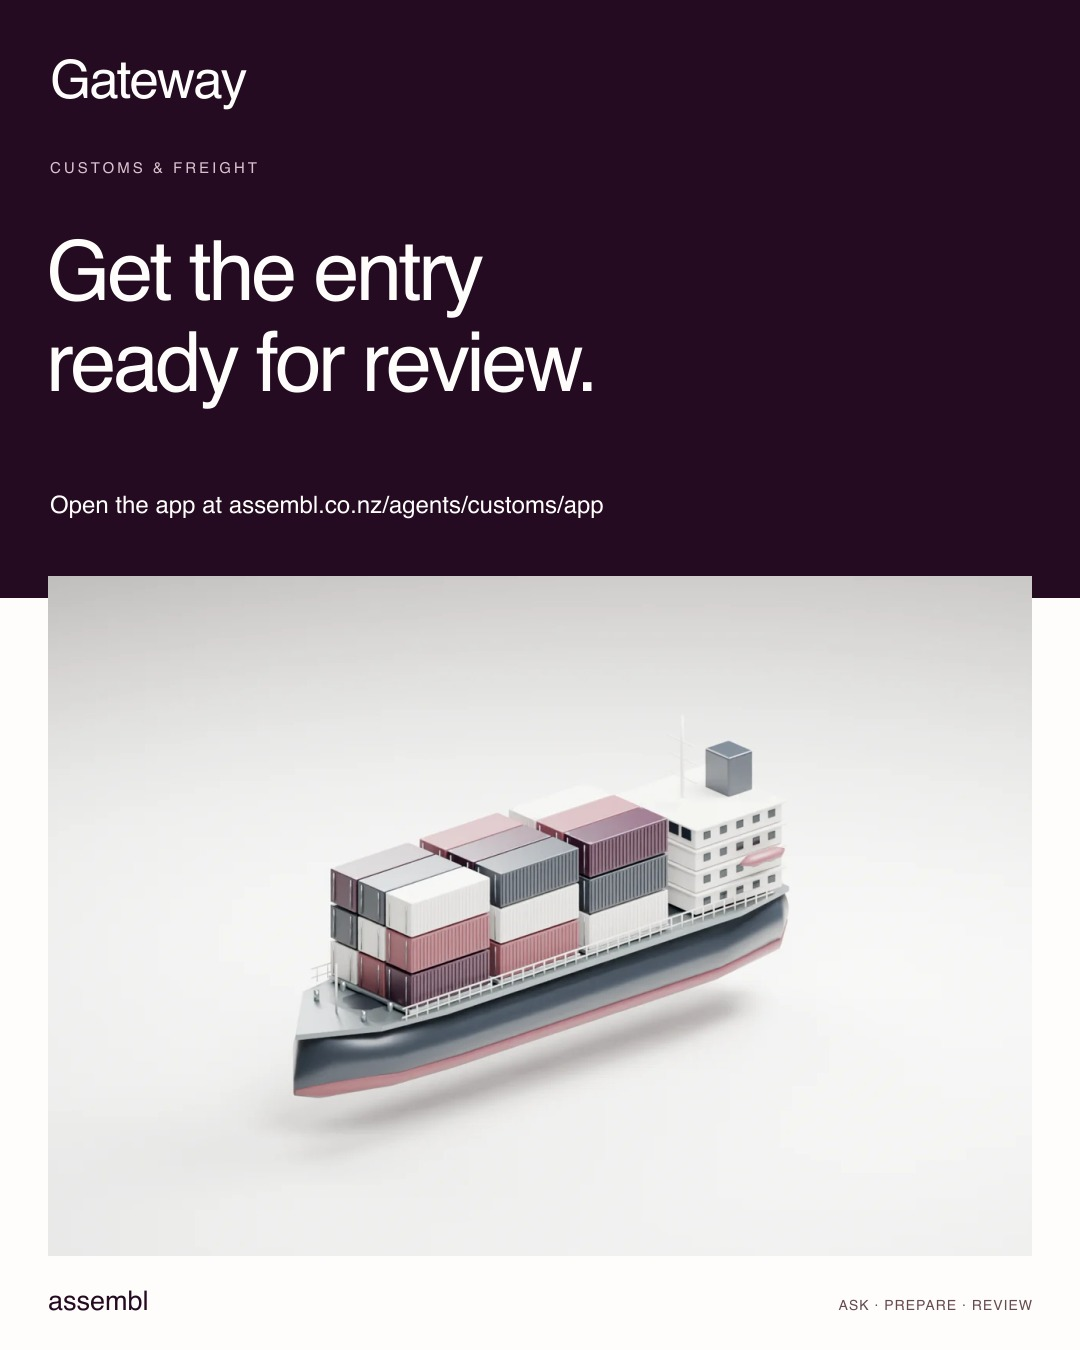
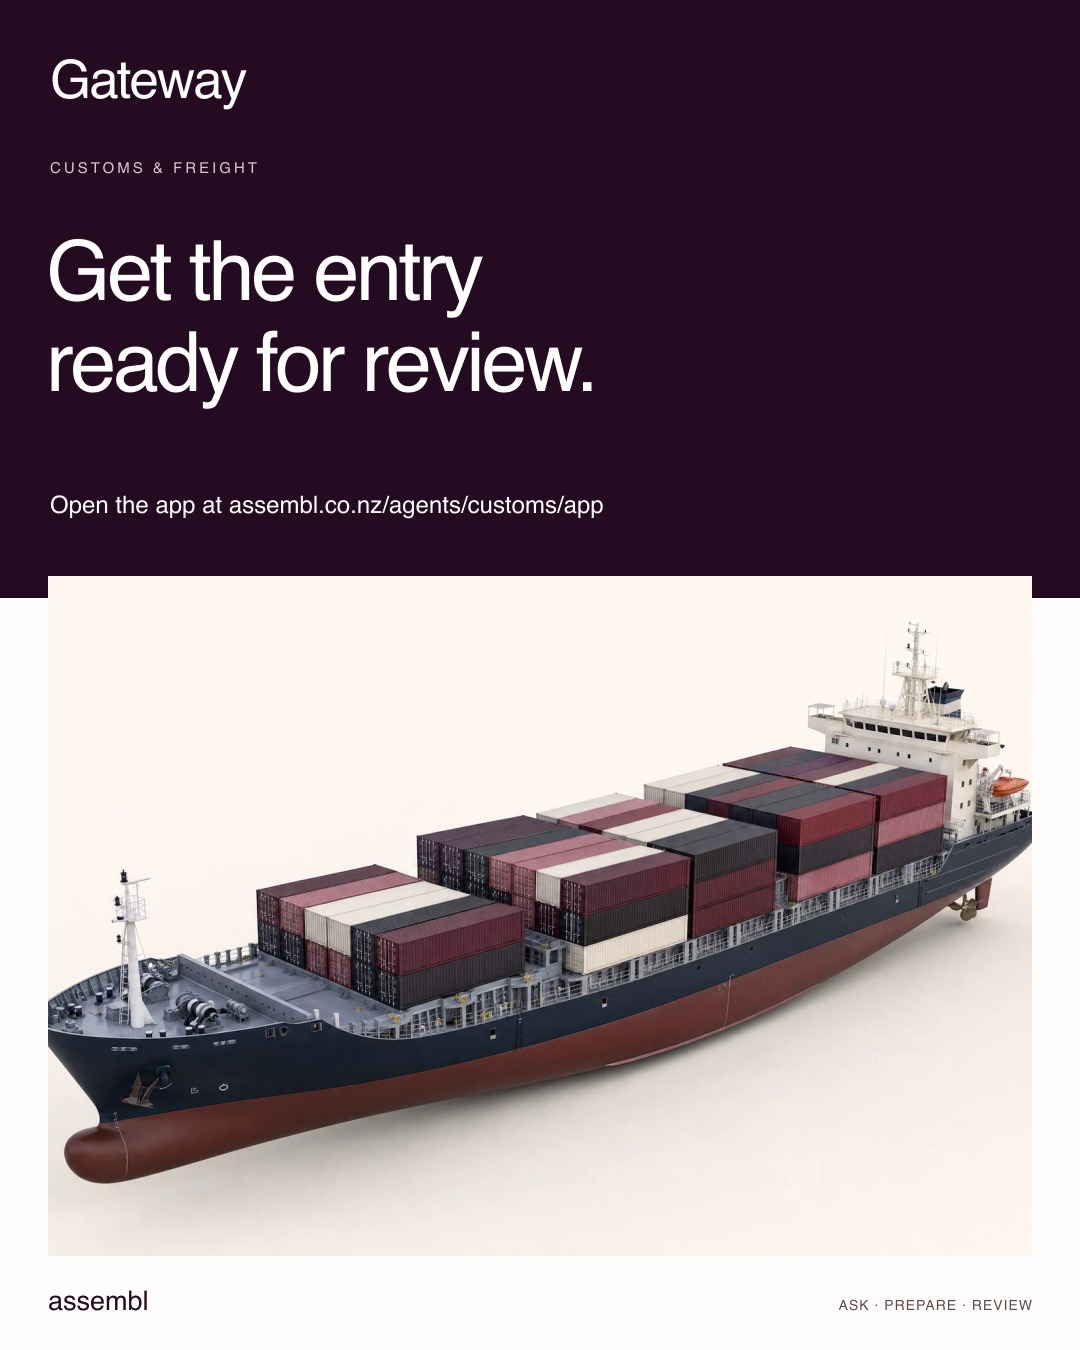
Refine app artwork and keep chat controls unobstructed

Changed region(s): [[0.0306, 0.4044, 0.9778, 0.9022]]

diff --git a/components/verticals/vertical-apps.css b/components/verticals/vertical-apps.css
@@ -74,7 +74,7 @@
 .va-button:hover{filter:brightness(.95)}
 .va-phone-expanded{position:fixed;inset:0;max-width:none;z-index:10000;background:#f5f1f2f5;display:grid;place-items:center;padding:20px;backdrop-filter:blur(18px)}
 .va-phone-expanded .va-phone{width:min(600px,100%);height:calc(100dvh - 40px);max-height:950px;border-radius:38px}.va-phone-expanded .va-phone:before{border-radius:30px}.va-phone-expanded .va-bubble{font-size:16px}.va-phone-expanded .va-conversation{padding:20px 26px}
-.va-dock{position:fixed;bottom:max(18px,env(safe-area-inset-bottom));left:50%;transform:translateX(-50%);z-index:80;display:flex;align-items:center;padding:5px;border:1px solid #fffdfb55;background:#240b21f5;color:#fffdfb;border-radius:99px;box-shadow:0 8px 30px #240b2133;backdrop-filter:blur(18px);white-space:nowrap;gap:2px}
+.va-dock{position:fixed;bottom:max(18px,env(safe-area-inset-bottom));left:6vw;transform:none;z-index:80;display:flex;align-items:center;padding:5px;border:1px solid #fffdfb55;background:#240b21f5;color:#fffdfb;border-radius:99px;box-shadow:0 8px 30px #240b2133;backdrop-filter:blur(18px);white-space:nowrap;gap:2px}
 .va-dock a,.va-dock button{display:inline-flex;align-items:center;justify-content:center;gap:8px;min-height:44px;border:0;background:transparent;color:inherit;border-radius:99px;padding:10px 15px;text-decoration:none;font:500 12px var(--font-body),sans-serif;cursor:pointer}
 .va-dock .va-dock-open{background:#fffdfb;color:#240b21}.va-dock a:hover,.va-dock button:hover{background:#654a4e;color:#fffdfb}
 .va-dialog{padding:0;border:1px solid #240b2124;background:#fffdfb;color:#240b21;width:min(560px,calc(100vw - 28px));max-height:calc(100dvh - 32px);border-radius:24px;box-shadow:0 30px 110px #240b2155;overflow:auto}
@@ -96,6 +96,8 @@
 @keyframes va-breathe{0%,100%{opacity:.35}50%{opacity:1}}
 @media(min-width:1500px){.va-showcase{padding-inline:calc((100vw - 1300px)/2)}}
 @media(max-width:1000px){.va-showcase{gap:40px;padding:70px 28px}.va-phone{height:770px}.va-phone-header{gap:8px;padding-inline:15px}.va-connection{font-size:8px;padding-inline:15px}.va-workspace-grid{grid-template-columns:minmax(0,1fr) minmax(380px,52%)}.va-app-cover>div{padding:35px 28px}.va-app-cover h1{color:#240b21;font-size:45px}}
-@media(max-width:780px){.va-showcase{grid-template-columns:1fr;gap:34px;padding:56px 20px 64px;scroll-margin-top:80px}.va-showcase-copy{max-width:520px}.va-showcase h2{font-size:45px;max-width:440px}.va-showcase .va-intro{font-size:16px;max-width:440px}.va-object-study{display:none}.va-how{margin-top:24px}.va-showcase-note{margin-top:10px}.va-phone-stage{max-width:414px}.va-phone{height:760px}.va-composer textarea{font-size:16px}.va-review-pane textarea,.va-review-pane input{font-size:16px}.va-workspace-grid{display:block;height:calc(100dvh - 65px);min-height:0}.va-app-cover{display:none}.va-app-header{height:65px;padding:env(safe-area-inset-top) 16px 0}.va-app-wordmark{font-size:22px;gap:10px}.va-app-wordmark span{font-size:9px;padding-left:10px}.va-app-tools{gap:5px}.va-app-tools button{font-size:11px;padding:9px 11px;gap:6px;min-height:38px}.va-phone-native{max-width:none}.va-phone-native .va-phone-header{padding:15px 19px}.va-phone-native .va-connection{padding:9px 19px;font-size:9px}.va-phone-native .va-conversation{padding:16px 19px}.va-phone-native .va-welcome{font-size:14px}.va-phone-native .va-bubble{font-size:14px}.va-phone-native .va-starters button{font-size:13px}.va-phone-native .va-composer{padding:11px 16px 8px}.va-phone-native .va-composer p{font-size:9px}.va-phone-native .va-phone-tabs{padding-top:4px}.va-phone-native .va-review-pane{padding:18px 20px}.va-dock{bottom:max(12px,env(safe-area-inset-bottom));width:max-content;max-width:calc(100vw - 20px);padding:4px;gap:0}.va-dock a,.va-dock button{font-size:11px;padding:10px 12px;gap:6px}.va-dock a:first-child span{display:none}.va-dock a:first-child{min-width:42px}.va-dialog-inner{padding:28px 23px}.va-dialog h2{font-size:34px}.va-phone-expanded{max-width:none;padding:0;background:#fffdfb}.va-phone-expanded .va-phone{border:0;border-radius:0;width:100%;height:100dvh;max-height:none;padding:0;background:#fffdfb;box-shadow:none}.va-phone-expanded .va-phone:before,.va-phone-expanded .va-phone:after{display:none}.va-phone-expanded .va-hardware{display:none}.va-phone-expanded .va-phone-header{padding-top:max(16px,env(safe-area-inset-top))}.va-phone-expanded .va-conversation{padding:18px}.va-phone-expanded .va-bubble{font-size:15px}}
+@media(max-width:780px){.va-showcase{grid-template-columns:1fr;gap:34px;padding:56px 20px 64px;scroll-margin-top:80px}.va-showcase-copy{max-width:520px}.va-showcase h2{font-size:45px;max-width:440px}.va-showcase .va-intro{font-size:16px;max-width:440px}.va-object-study{display:none}.va-how{margin-top:24px}.va-showcase-note{margin-top:10px}.va-phone-stage{max-width:414px}.va-phone{height:760px}.va-composer textarea{font-size:16px}.va-review-pane textarea,.va-review-pane input{font-size:16px}.va-workspace-grid{display:block;height:calc(100dvh - 65px);min-height:0}.va-app-cover{display:none}.va-app-header{height:65px;padding:env(safe-area-inset-top) 16px 0}.va-app-wordmark{font-size:22px;gap:10px}.va-app-wordmark span{font-size:9px;padding-left:10px}.va-app-tools{gap:5px}.va-app-tools button{font-size:11px;padding:9px 11px;gap:6px;min-height:38px}.va-phone-native{max-width:none}.va-phone-native .va-phone-header{padding:15px 19px}.va-phone-native .va-connection{padding:9px 19px;font-size:9px}.va-phone-native .va-conversation{padding:16px 19px}.va-phone-native .va-welcome{font-size:14px}.va-phone-native .va-bubble{font-size:14px}.va-phone-native .va-starters button{font-size:13px}.va-phone-native .va-composer{padding:11px 16px 8px}.va-phone-native .va-composer p{font-size:9px}.va-phone-native .va-phone-tabs{padding-top:4px}.va-phone-native .va-review-pane{padding:18px 20px}.va-dock{left:50%;transform:translateX(-50%);bottom:max(12px,env(safe-area-inset-bottom));width:max-content;max-width:calc(100vw - 20px);padding:4px;gap:0}.va-dock a,.va-dock button{font-size:11px;padding:10px 12px;gap:6px}.va-dock a:first-child span{display:none}.va-dock a:first-child{min-width:42px}.va-dialog-inner{padding:28px 23px}.va-dialog h2{font-size:34px}.va-phone-expanded{max-width:none;padding:0;background:#fffdfb}.va-phone-expanded .va-phone{border:0;border-radius:0;width:100%;height:100dvh;max-height:none;padding:0;background:#fffdfb;box-shadow:none}.va-phone-expanded .va-phone:before,.va-phone-expanded .va-phone:after{display:none}.va-phone-expanded .va-hardware{display:none}.va-phone-expanded .va-phone-header{padding-top:max(16px,env(safe-area-inset-top))}.va-phone-expanded .va-conversation{padding:18px}.va-phone-expanded .va-bubble{font-size:15px}}
 @media(max-width:380px){.va-showcase{padding-inline:12px}.va-showcase h2{font-size:41px}.va-phone{height:735px;border-radius:48px}.va-phone:before{border-radius:40px}.va-phone-header{padding:10px 12px;gap:7px}.va-phone-header img{width:36px;height:36px;border-radius:10px}.va-phone-header strong{font-size:18px}.va-phone-header span{font-size:10px}.va-connection{padding-inline:12px;font-size:8px}.va-hardware{padding-inline:24px}.va-island{width:83px}.va-conversation{padding:14px}.va-dock a,.va-dock button{padding-inline:11px}.va-app-wordmark span{display:none}}
 @media(prefers-reduced-motion:reduce){.va-thinking i,.va-connection[data-state=busy]>i{animation:none}.va-starters button{transition:none}}
+
+body:has(.va-composer textarea:focus) .va-dock{visibility:hidden}

diff --git a/lib/verticals/config.ts b/lib/verticals/config.ts
@@ -38,7 +38,7 @@ export const VERTICALS: Record<VerticalSlug, Vertical> = {
     description: 'Prepare an enquiry reply, a service update or a dealership brief, ready for your team to check.',
     greeting: 'What needs preparing at the dealership? Share the facts you have, or try a sample Subaru enquiry. I will keep the gaps visible and leave the next action with your team.',
     reviewer: 'Dealership or service team', output: 'Customer draft',
-    image: '/brand/transport/subaru-assembled.webp', imageAlt: 'Illustrative Subaru WRX assembly model',
+    image: '/brand/transport/subaru-reference.webp', imageAlt: 'Illustrative Subaru WRX assembly model',
     starters: [
       { label: 'Reply to a Subaru enquiry', prompt: 'Sample enquiry: a customer asks to see a blue Subaru WRX this weekend. Stock, price and appointments are unconfirmed. Draft a short reply for our sales team to review, with one useful question. Do not invent availability.' },
       { label: 'Prepare a service update', prompt: 'Sample service visit: inspection underway, no findings or completion time confirmed. The customer needs the car for school pickup. Draft a helpful update and one question for the service adviser to ask.' },
@@ -51,7 +51,7 @@ export const VERTICALS: Record<VerticalSlug, Vertical> = {
     description: 'Organise the shipment details and missing documents before the broker takes the next step.',
     greeting: 'What is arriving, and what do you know so far? I can organise a shipment brief and questions for your broker. Start with sample goods and keep personal or commercial identifiers out of the demo.',
     reviewer: 'Customs broker', output: 'Shipment brief',
-    image: '/brand/transport/boat-assembled.webp', imageAlt: 'Illustrative container vessel assembly model',
+    image: '/brand/transport/boat-reference.webp', imageAlt: 'Illustrative container vessel assembly model',
     starters: [
       { label: 'Prepare a sea-freight brief', prompt: 'Sample shipment: timber furniture arriving in Auckland by sea. We have a supplier invoice but no confirmed wood species, treatment evidence or origin documents. Prepare a missing-information brief for our broker. Do not invent a tariff code or clearance status.' },
       { label: 'Prepare an air-freight update', prompt: 'Sample shipment: replacement machine parts arriving by air, with arrival time and clearance unconfirmed. Draft a short customer update and questions for the freight team. Do not promise a release date.' },
